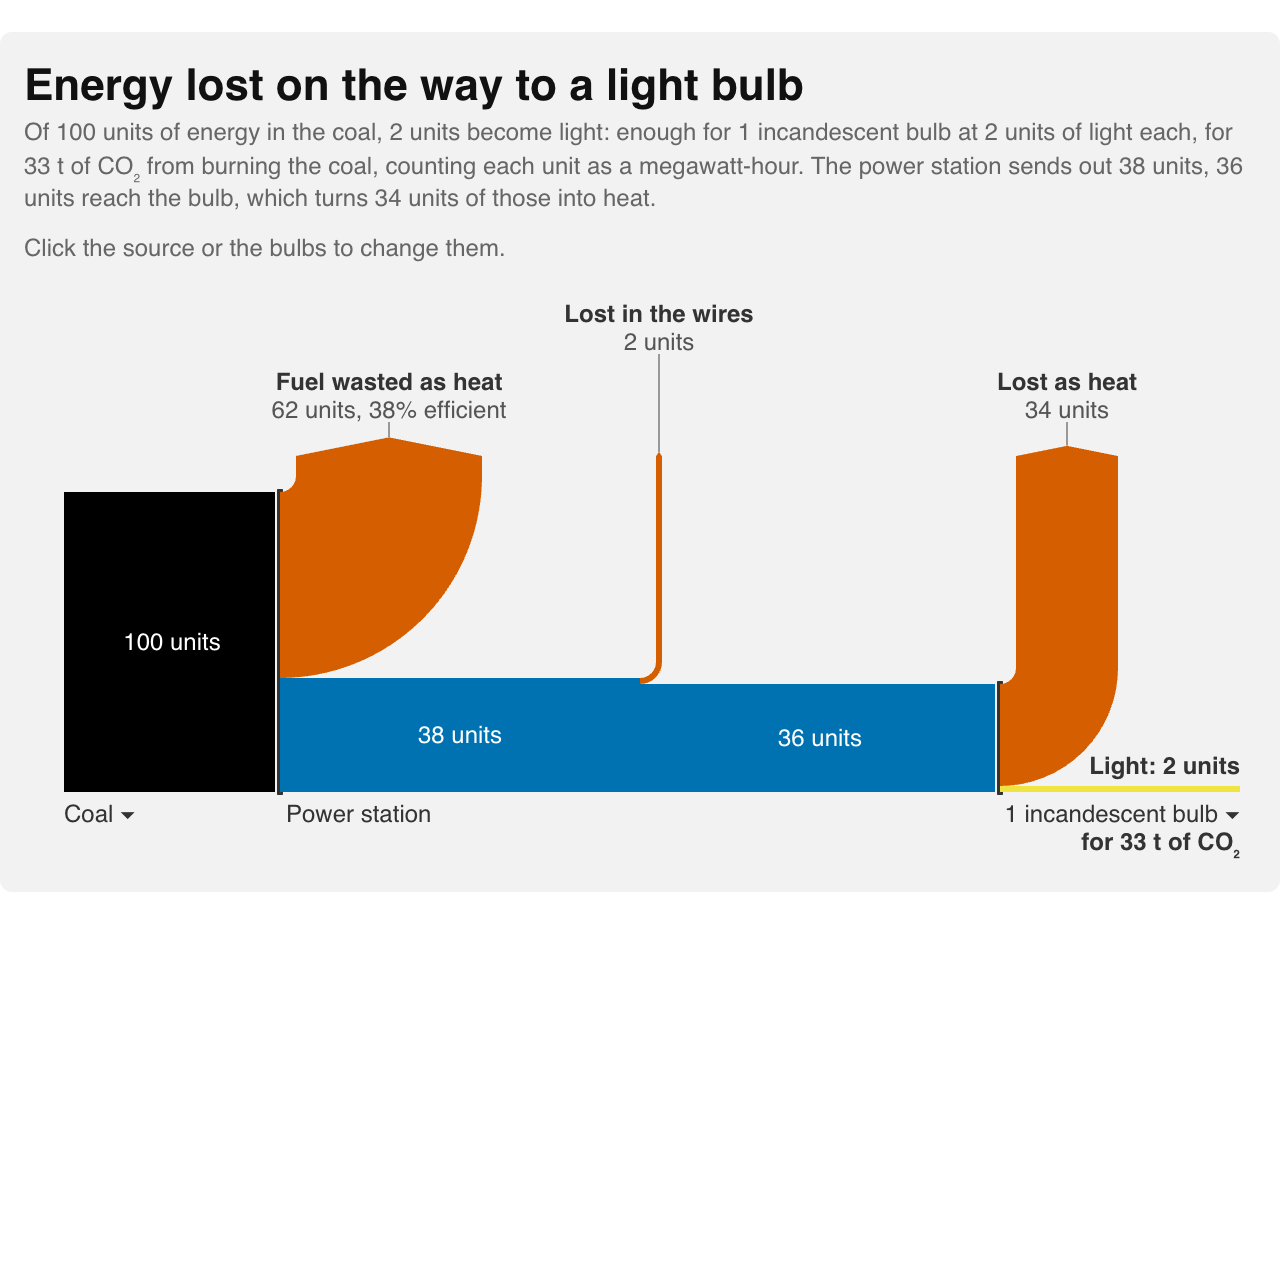
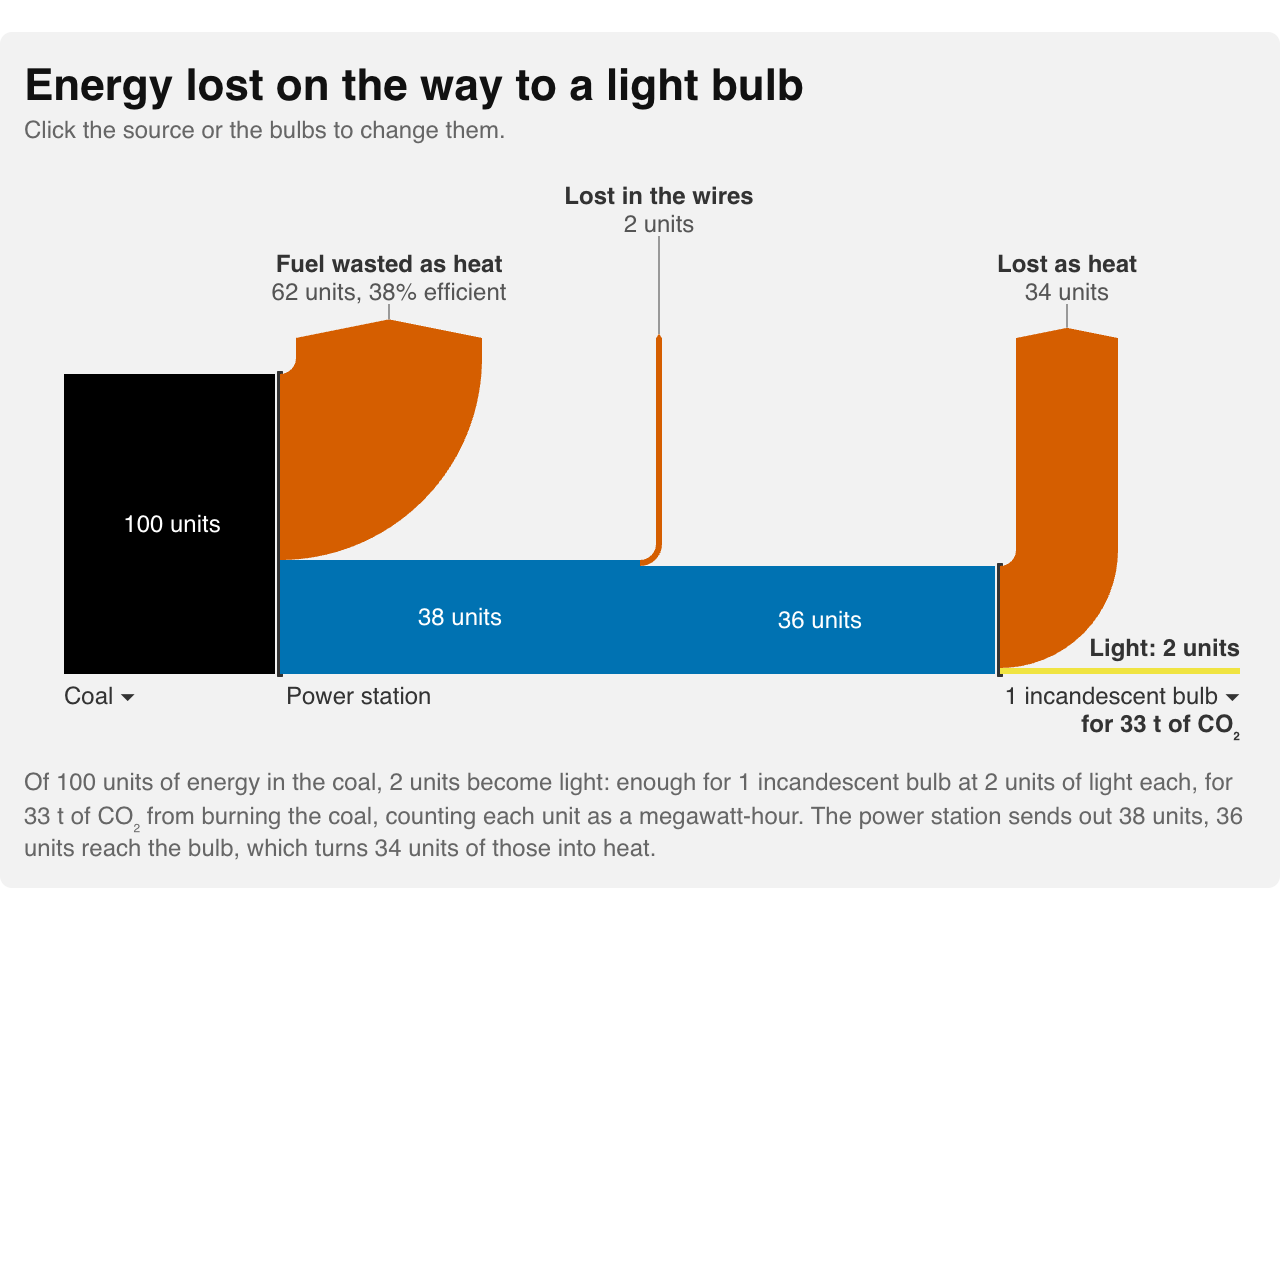
Energy chain: the summary moves under the drawing
The sentence of numbers sat between the title and the drawing; it now follows
the drawing, so the chart comes straight after the title and the hint.

diff --git a/src/energy-chain/widget.js b/src/energy-chain/widget.js
@@ -164,8 +164,9 @@ export function createEnergyChainWidget({width = FIGURE_WIDTH, bulb: initialBulb
   heading.textContent = "Energy lost on the way to a light bulb";
   container.appendChild(heading);
   const subheading = document.createElement("div");
-  subheading.style.cssText = "font-size:12px;color:#666;padding:0 0 10px;line-height:1.35;";
-  container.appendChild(subheading);
+  // The summary of the numbers goes under the drawing, so the drawing comes straight after
+  // the title; it is appended once the drawing's box exists.
+  subheading.style.cssText = "font-size:12px;color:#666;padding:8px 0 0;line-height:1.35;";
 
   // No controls: the source and the bulbs are chosen on the drawing itself, from a menu that
   // pops up under each when it is clicked.
@@ -337,6 +338,7 @@ export function createEnergyChainWidget({width = FIGURE_WIDTH, bulb: initialBulb
   scroller.style.cssText = "max-width:100%;overflow-x:auto;";
   scroller.appendChild(svg);
   container.appendChild(scroller);
+  container.appendChild(subheading);
   function svgEl(tag, attrs = {}, parent) {
     const el = document.createElementNS(SVG_NS, tag);
     for (const [k, v] of Object.entries(attrs)) el.setAttribute(k, v);
